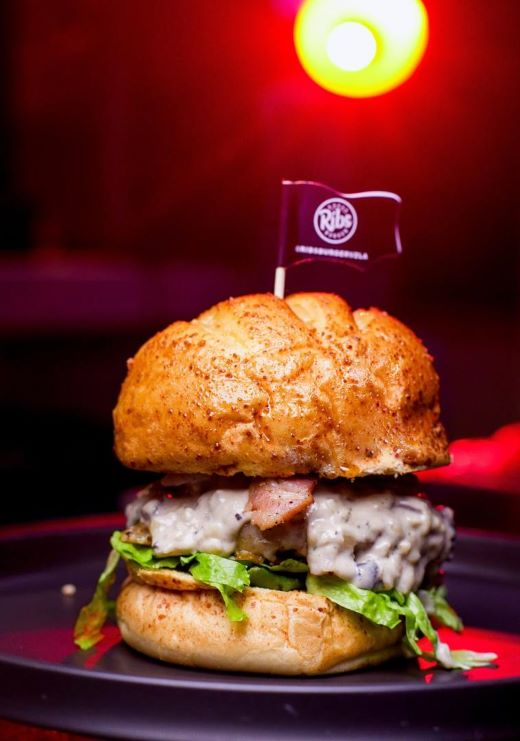
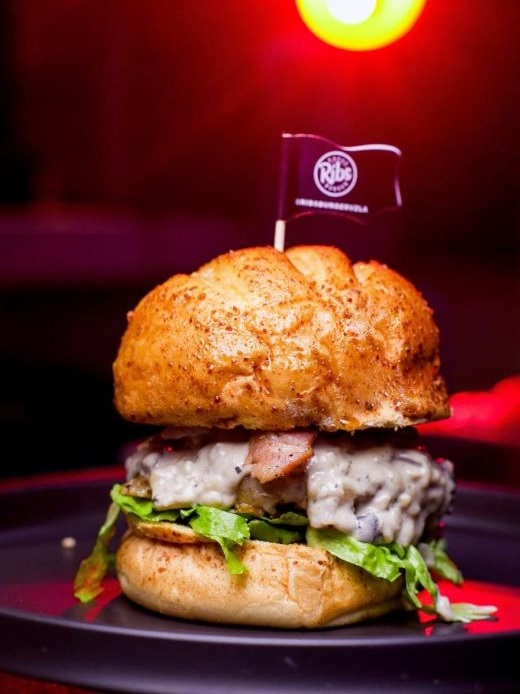
update 3-2-2025

diff --git a/src/page/bebidas.py b/src/page/bebidas.py
@@ -61,20 +61,6 @@ def bebidas_page(page, cambiar_pagina):
             "description": "",
             "price": "Precio 3.80"
         },
-        #refresco 1.5
-        {
-            "img": "img/bebidas/refresco1.5.jpg",
-            "title": "Refresco 1.5lt (Solo por delivery)",
-            "description": "",
-            "price": "Precio 3.50"
-        },
-        #refresco 2lt
-        {
-            "img": "img/bebidas/refresco2.jpg",
-            "title": "Refresco 2lt (Solo por delivery)",
-            "description": "",
-            "price": "Precio 4.20"
-        } ,
         # soda
         {
             "img": "img/bebidas/soda.jpg",
@@ -90,26 +76,12 @@ def bebidas_page(page, cambiar_pagina):
             "price": "Precio 2.50"
         },
         # redbull
-        {
-            "img": "img/bebidas/redbull.jpg",
-            "title": "Redbull",
-            "description": "",
-            "price": "Precio 5.20"
-        },
-        {
-            "img": "img/bebidas/vaso_nestea.jpg",
-            "title": "Vaso de Nestea 16oz (Durazno o Limón)",
-            "description": "",
-            "price": "Precio 2.70",
-            "delivery":"False"
-        },
-        {
-            "img": "img/bebidas/vaso_refresco.jpg",
-            "title": "Vaso de Refresco 16oz (Recargable)",
-            "description": "",
-            "price": "Precio 2.30",
-            "delivery":"False"
-        },
+        # {
+        #     "img": "img/bebidas/redbull.jpg",
+        #     "title": "Redbull",
+        #     "description": "",
+        #     "price": "Precio 5.20"
+        # },
         {
             "img": "img/bebidas/jugo_yukery.jpg",
             "title": "Jugo Yukery",
@@ -129,9 +101,42 @@ def bebidas_page(page, cambiar_pagina):
             "price": "Precio 2.70",
             "delivery":"False"
         },
+        {
+            "img": "img/bebidas/vaso_nestea.jpg",
+            "title": "Vaso de Nestea 16oz (Durazno o Limón)",
+            "description": "",
+            "price": "Precio 2.70",
+            "delivery":"False"
+        },
+        {
+            "img": "img/bebidas/vaso_refresco.jpg",
+            "title": "Vaso de Refresco 16oz (Recargable)",
+            "description": "",
+            "price": "Precio 2.30",
+            "delivery":"False"
+        }
     ]
     
-    #bebidas =  get_all(bebidas_inicial,"bebidas")
+    bebidas_solo_por_delivery = [
+        #refresco 1.5
+        {
+            "img": "img/bebidas/refresco1.5.jpg",
+            "title": "Refresco 1.5lt (Solo por delivery)",
+            "description": "",
+            "price": "Precio 3.50"
+        },
+        #refresco 2lt
+        {
+            "img": "img/bebidas/refresco2.jpg",
+            "title": "Refresco 2lt (Solo por delivery)",
+            "description": "",
+            "price": "Precio 4.20"
+        } 
+    ]
+
+    if page.platform != ft.PagePlatform.ANDROID:
+        bebidas = bebidas + bebidas_solo_por_delivery
+
     return ft.Column(
         controls=[
             galeria(page,"Bebidas", bebidas,cambiar_pagina),

diff --git a/src/page/burger.py b/src/page/burger.py
@@ -65,12 +65,10 @@ def burger_page(page,cambiar_pagina):
         },
         {
             "img": "img/burger/febrero2026.jpg",
-            "title": "Edición Especial: Mes del Amor y la Amistad",
-            "description": "¡Un flechazo directo al paladar! Disfruta de una jugosa mezcla de carne de res y cerdo, bañada en nuestra irresistible y cremosa salsa de champiñones. Coronada con tocineta crocante y queso mozzarella fundido, sobre una cama de lechuga fresca y abrazada por un tierno pan de parmesano especial.",
+            "title": "Burger de temporada Febrero 2026",
+            "description": "Disfruta de nuestra Jugosa carne de res y cerdo con crema de champiñones con queso azul, tocineta y mozzarella en un pan de parmesano",
             "price": "Precio 12.80"
-        },
-        
-
+        }
     ]
 
     viernes_a_domingos = [

diff --git a/src/page/cocteles.py b/src/page/cocteles.py
@@ -22,7 +22,7 @@ def cocteles_page(page, cambiar_pagina):
             "img": "img/cocteles/daiquiri_parchita.jpg",
             "title": "Daiquiri Parchita",
             "description": "Parchita congelada, ron blanco, extracto de limón y azúcar.",
-            "price": "Precio 4.60"
+            "price": "Precio 5.50"
         },
         {
             "img": "img/cocteles/daiquiri_fresa.jpg",
@@ -71,6 +71,8 @@ def cocteles_page(page, cambiar_pagina):
             "price": "Precio 4.50"
         }
     ]
+
+    
 
     #cocteles =  get_all(cocteles_inicial,"cocteles")
 

diff --git a/src/main.py b/src/main.py
@@ -137,7 +137,7 @@ def main(page: ft.Page):
     dialog =ft.AlertDialog(
         bgcolor=ft.Colors.BLACK,
         title=ft.Text("Ribs Burger"),
-        content=ft.Text("Ahora premiamos tu fidelidad cada mes 🎉\nCada visita cuenta para optar por muchos premios."),
+        content=ft.Text("Ahora premiamos tu fidelidad cada mes 🎉\nCada visita cuenta para optar por muchos premios.\nRecuerda preguntar por nuestro programa coorporativo."),
         open=True,
     )
     page.add(dialog)
